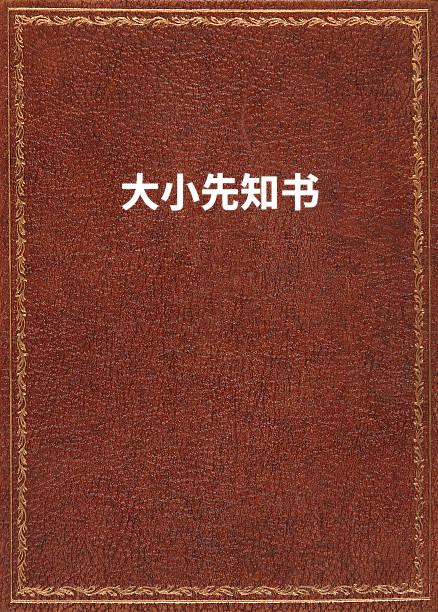
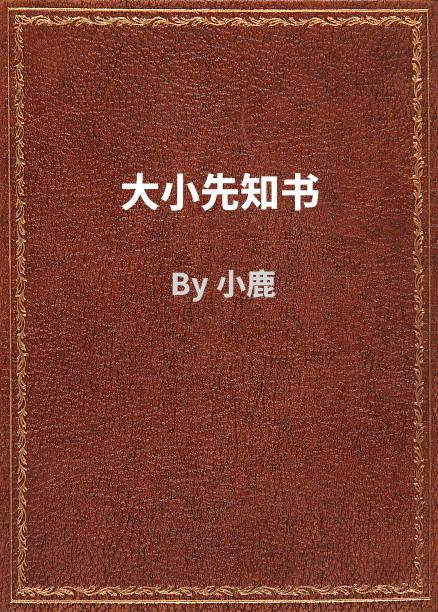
update book cover

Changed region(s): [[0.5046, 0.4346, 0.6233, 0.4967], [0.3858, 0.4346, 0.4749, 0.4967]]

diff --git a/content/_index.md b/content/_index.md
@@ -19,5 +19,5 @@ bookToC: false
 {{< bookcover title="圣灵全备的祝福" author="慕安得烈" url="圣灵全备的祝福/" image="images/books/圣灵全备的祝福.jpg" >}}
 {{< bookcover title="耶稣宝血的能力" author="慕安得烈" url="耶稣宝血的能力/" image="images/books/耶稣宝血的能力.jpg" >}}
 {{< bookcover title="至圣所" author="慕安得烈" url="至圣所/" image="images/books/至圣所.jpg" >}}
-{{< bookcover title="大小先知书" author="" url="大小先知书/" image="images/books/大小先知书.jpg" >}}
+{{< bookcover title="大小先知书" author="小鹿" url="大小先知书/" image="images/books/大小先知书.jpg" >}}
 </div>
